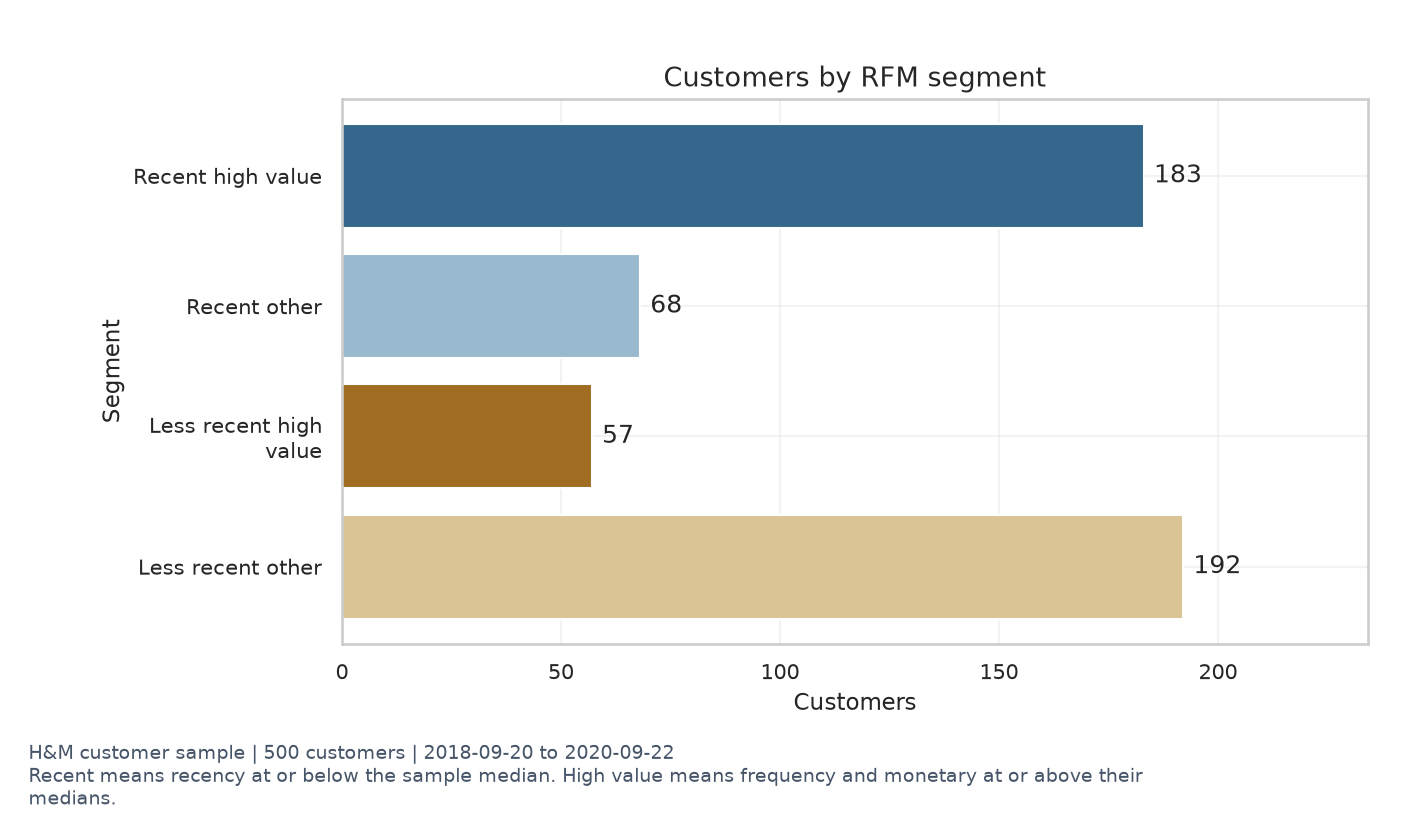
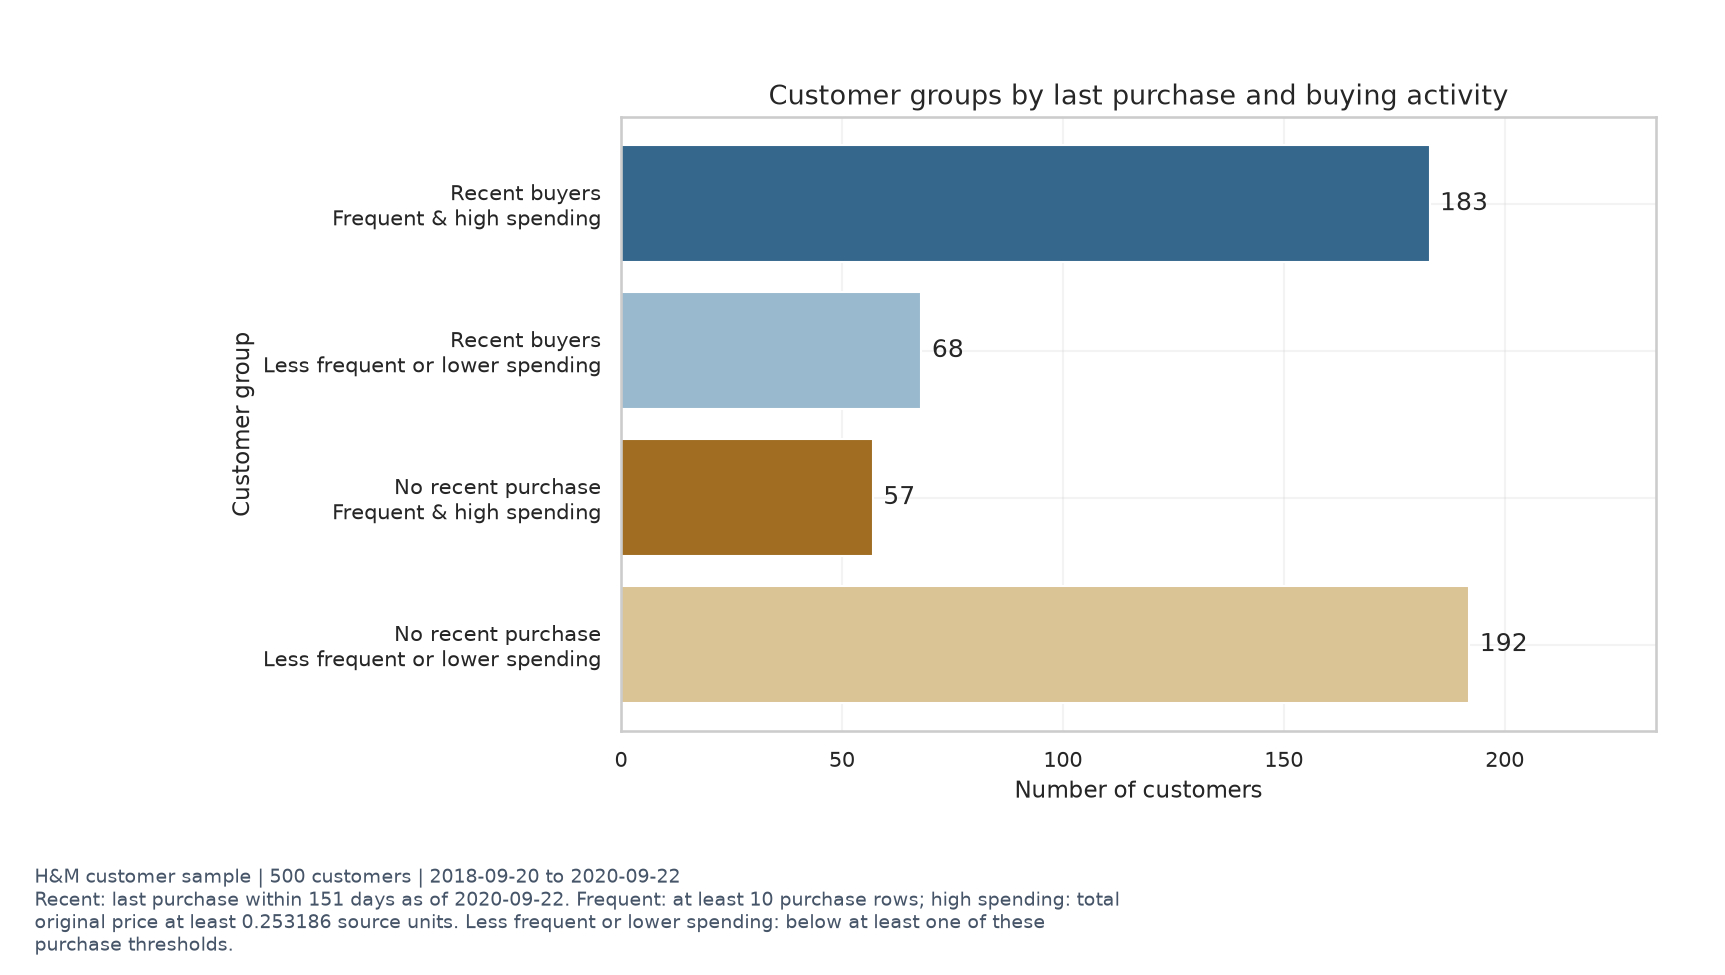
refactor(analysis): clarify customer group labels

diff --git a/src/reporting.py b/src/reporting.py
@@ -68,16 +68,16 @@ def business_insights(analyzer):
 
     groups = analyzer.segment_summary()  # 고객별 개인정보가 없는 집계를 선택한다.
 
-    recent_value = groups.loc['Recent high value']  # 최근·고빈도·고금액 고객의 실제 수치를 읽는다.
+    recent_value = groups.loc['Recent buyers / Frequent & high spending']  # 최근·고빈도·고금액 고객의 실제 수치를 읽는다.
 
-    less_recent = groups.loc['Less recent high value']  # 상대적으로 오래 방문하지 않은 고가치 고객을 읽는다.
+    less_recent = groups.loc['No recent purchase / Frequent & high spending']  # 상대적으로 오래 방문하지 않은 고가치 고객을 읽는다.
 
-    recent_other = groups.loc['Recent other']  # 그 외 최근 구매 고객의 실제 수치를 읽는다.
+    recent_other = groups.loc['Recent buyers / Less frequent or lower spending']  # 그 외 최근 구매 고객의 실제 수치를 읽는다.
 
     return [  # 세 인사이트를 같은 근거·실행·검증 구조로 만든다.
-        {'title': '최근 고빈도·고금액 고객의 관계 유지', 'evidence': f"Recent high value {int(recent_value['customers'])}명은 고객의 {recent_value['customer_share']:.1%}, 표본 구매 금액 합계의 {recent_value['monetary_share']:.1%}다.", 'action': '이 그룹에 구매 상품군과 연관된 추천을 소규모 대조 실험으로 제공한다. 목표는 재구매 유지이며 개선율은 아직 측정하지 않았다.', 'validation': '통제군과 비교한 재구매율·순이익, 반품·할인·동의 정보를 추가로 확인해야 한다. 높은 금액만으로 추천의 효과가 입증되지는 않는다.'},  # 할인 효과나 이익을 가정하지 않는다.
-        {'title': '상대적으로 오래 미구매한 고가치 고객의 재방문 검증', 'evidence': f"Less recent high value {int(less_recent['customers'])}명의 평균 미구매 간격은 {less_recent['mean_recency']:.1f}일이고 표본 금액 비중은 {less_recent['monetary_share']:.1%}다.", 'action': '이 그룹을 대상으로 재방문 안내와 미제공 대조군을 비교하는 실험을 설계한다. 목표는 재방문율 개선이며 실제 개선율은 아직 측정하지 않았다. 과거 구매일 기준 분류이며 현재 실제 이탈 고객이라고 단정하지 않는다.', 'validation': '관측 종료 뒤 구매 기록과 수신 동의, 재방문 이유가 필요하다. 관측 기간 종료 때문에 재방문을 못 본 것일 수도 있다.'},  # 관측 종료와 실제 이탈을 구분한다.
-        {'title': '그 외 최근 구매 고객의 후속 구매 기회', 'evidence': f"Recent other {int(recent_other['customers'])}명의 평균 구매 빈도는 {recent_other['mean_frequency']:.2f}행, 평균 금액 합계는 {recent_other['mean_monetary']:.4f} 원본 가격 단위다.", 'action': '이 그룹에 상품 사용 정보와 관련 상품 추천을 제공하는 실험을 설계하고 다음 구매일까지의 기간을 비교한다. 목표는 후속 구매까지의 기간 단축이며 실제 효과는 아직 측정하지 않았다. 신규 회원이라는 근거가 없으므로 신규 고객이라고 부르지 않는다.', 'validation': '가입일·반품·배송 만족도와 후속 구매 관측 기간이 필요하다. 단순한 계절 구매 고객이라면 추천 효과가 없을 수 있다.'},  # 없는 가입일과 구매량을 만들지 않는다.
+        {'title': '최근 고빈도·고금액 고객의 관계 유지', 'evidence': f"Recent buyers / Frequent & high spending {int(recent_value['customers'])}명은 고객의 {recent_value['customer_share']:.1%}, 표본 구매 금액 합계의 {recent_value['monetary_share']:.1%}다.", 'action': '이 그룹에 구매 상품군과 연관된 추천을 소규모 대조 실험으로 제공한다. 목표는 재구매 유지이며 개선율은 아직 측정하지 않았다.', 'validation': '통제군과 비교한 재구매율·순이익, 반품·할인·동의 정보를 추가로 확인해야 한다. 높은 금액만으로 추천의 효과가 입증되지는 않는다.'},  # 할인 효과나 이익을 가정하지 않는다.
+        {'title': '상대적으로 오래 미구매한 고가치 고객의 재방문 검증', 'evidence': f"No recent purchase / Frequent & high spending {int(less_recent['customers'])}명의 평균 미구매 간격은 {less_recent['mean_recency']:.1f}일이고 표본 금액 비중은 {less_recent['monetary_share']:.1%}다.", 'action': '이 그룹을 대상으로 재방문 안내와 미제공 대조군을 비교하는 실험을 설계한다. 목표는 재방문율 개선이며 실제 개선율은 아직 측정하지 않았다. 과거 구매일 기준 분류이며 현재 실제 이탈 고객이라고 단정하지 않는다.', 'validation': '관측 종료 뒤 구매 기록과 수신 동의, 재방문 이유가 필요하다. 관측 기간 종료 때문에 재방문을 못 본 것일 수도 있다.'},  # 관측 종료와 실제 이탈을 구분한다.
+        {'title': '그 외 최근 구매 고객의 후속 구매 기회', 'evidence': f"Recent buyers / Less frequent or lower spending {int(recent_other['customers'])}명의 평균 구매 빈도는 {recent_other['mean_frequency']:.2f}행, 평균 금액 합계는 {recent_other['mean_monetary']:.4f} 원본 가격 단위다.", 'action': '이 그룹에 상품 사용 정보와 관련 상품 추천을 제공하는 실험을 설계하고 다음 구매일까지의 기간을 비교한다. 목표는 후속 구매까지의 기간 단축이며 실제 효과는 아직 측정하지 않았다. 신규 회원이라는 근거가 없으므로 신규 고객이라고 부르지 않는다.', 'validation': '가입일·반품·배송 만족도와 후속 구매 관측 기간이 필요하다. 단순한 계절 구매 고객이라면 추천 효과가 없을 수 있다.'},  # 없는 가입일과 구매량을 만들지 않는다.
     ]  # 실제 실행이나 고객 메시지 전송은 하지 않는다.
 
 

diff --git a/tests/test_pipeline.py b/tests/test_pipeline.py
@@ -87,7 +87,7 @@ class PipelineTests(unittest.TestCase):  # 분석 결과의 의미가 바뀌는 
         self.assertEqual(result.loc['fake_A', 'recency'], 1)  # 기준일보다 하루 전 구매한 고객이다.
         self.assertAlmostEqual(result.loc['fake_A', 'monetary'], 1.6)  # 0.4를 네 번 산 금액이다.
         self.assertEqual(set(result['segment']), set(SEGMENTS))  # 예상한 네 그룹이 모두 나타나야 한다.
-        self.assertEqual(result.loc['fake_C', 'segment'], 'Less recent high value')  # 과거 고빈도·고금액 고객을 구분한다.
+        self.assertEqual(result.loc['fake_C', 'segment'], 'No recent purchase / Frequent & high spending')  # 과거 고빈도·고금액 고객을 구분한다.
         daily = self.analyzer.calculate_rfm(reference_date='2020-09-22', frequency='purchase_days').set_index('customer_id')  # 구매일 수라는 다른 정의도 명시적으로 선택할 수 있다.
         self.assertEqual(daily.loc['fake_A', 'frequency'], 1)  # 주문 수와 구매 행 수를 혼동하지 않는다.
 

diff --git a/README.md b/README.md
@@ -87,14 +87,16 @@ uv run --locked --python 3.11 jupyter lab notebooks/analysis_report.ipynb
 
 ## 🟢 RFM 고객 그룹  
 
+그룹 이름은 `/` 앞에서 최근 구매 여부, 뒤에서 구매 빈도·금액을 읽는다. `Recent buyers`는 최근 기준 안에 구매한 고객, `No recent purchase`는 그 기간 안에 구매가 없는 고객이다. `Frequent & high spending`은 빈도와 금액 기준을 모두 만족하고, `Less frequent or lower spending`은 둘 중 하나 이상이 기준보다 낮다는 뜻이다. 신규·실제 이탈 여부를 확정한 이름은 아니다.
+
 최근 기준은 미구매 간격 151.0일 이하, 고가치는 구매 빈도 10.0행 이상과 금액 0.253186 이상을 모두 만족하는 것이다. 모두 표본 중앙값 기준이다. R·F·M 점수는 1~4의 평균 백분위 순위로 계산하고 같은 값에 같은 점수를 준다. 그룹은 아래 조건으로 별도 정의한다.  
 
 | segment | customers | mean_recency | mean_frequency | mean_monetary | total_monetary | customer_share | monetary_share |  
 | --- | --- | --- | --- | --- | --- | --- | --- |
-| Recent high value | 183 | 46.7705 | 51.4863 | 1.4330 | 262.2428 | 0.3660 | 0.8018 |  
-| Recent other | 68 | 65.8824 | 4.7500 | 0.1205 | 8.1942 | 0.1360 | 0.0251 |  
-| Less recent high value | 57 | 342.4035 | 24.3333 | 0.6390 | 36.4233 | 0.1140 | 0.1114 |  
-| Less recent other | 192 | 454.3385 | 4.1406 | 0.1052 | 20.2041 | 0.3840 | 0.0618 |  
+| Recent buyers / Frequent & high spending | 183 | 46.7705 | 51.4863 | 1.4330 | 262.2428 | 0.3660 | 0.8018 |
+| Recent buyers / Less frequent or lower spending | 68 | 65.8824 | 4.7500 | 0.1205 | 8.1942 | 0.1360 | 0.0251 |
+| No recent purchase / Frequent & high spending | 57 | 342.4035 | 24.3333 | 0.6390 | 36.4233 | 0.1140 | 0.1114 |
+| No recent purchase / Less frequent or lower spending | 192 | 454.3385 | 4.1406 | 0.1052 | 20.2041 | 0.3840 | 0.0618 |
 
 ![고객 그룹 비교](reports/figures/03_segment_bar.png)  
 
@@ -104,19 +106,19 @@ uv run --locked --python 3.11 jupyter lab notebooks/analysis_report.ipynb
 
 ### 🟡 최근 고빈도·고금액 고객의 관계 유지  
 
-- 근거: Recent high value 183명은 고객의 36.6%, 표본 구매 금액 합계의 80.2%다.  
+- 근거: Recent buyers / Frequent & high spending 183명은 고객의 36.6%, 표본 구매 금액 합계의 80.2%다.
 - 실행: 이 그룹에 구매 상품군과 연관된 추천을 소규모 대조 실험으로 제공한다. 목표는 재구매 유지이며 개선율은 아직 측정하지 않았다.  
 - 검증: 통제군과 비교한 재구매율·순이익, 반품·할인·동의 정보를 추가로 확인해야 한다. 높은 금액만으로 추천의 효과가 입증되지는 않는다.  
 
 ### 🟡 상대적으로 오래 미구매한 고가치 고객의 재방문 검증  
 
-- 근거: Less recent high value 57명의 평균 미구매 간격은 342.4일이고 표본 금액 비중은 11.1%다.  
+- 근거: No recent purchase / Frequent & high spending 57명의 평균 미구매 간격은 342.4일이고 표본 금액 비중은 11.1%다.
 - 실행: 이 그룹을 대상으로 재방문 안내와 미제공 대조군을 비교하는 실험을 설계한다. 목표는 재방문율 개선이며 실제 개선율은 아직 측정하지 않았다. 과거 구매일 기준 분류이며 현재 실제 이탈 고객이라고 단정하지 않는다.  
 - 검증: 관측 종료 뒤 구매 기록과 수신 동의, 재방문 이유가 필요하다. 관측 기간 종료 때문에 재방문을 못 본 것일 수도 있다.  
 
 ### 🟡 그 외 최근 구매 고객의 후속 구매 기회  
 
-- 근거: Recent other 68명의 평균 구매 빈도는 4.75행, 평균 금액 합계는 0.1205 원본 가격 단위다.  
+- 근거: Recent buyers / Less frequent or lower spending 68명의 평균 구매 빈도는 4.75행, 평균 금액 합계는 0.1205 원본 가격 단위다.
 - 실행: 이 그룹에 상품 사용 정보와 관련 상품 추천을 제공하는 실험을 설계하고 다음 구매일까지의 기간을 비교한다. 목표는 후속 구매까지의 기간 단축이며 실제 효과는 아직 측정하지 않았다. 신규 회원이라는 근거가 없으므로 신규 고객이라고 부르지 않는다.  
 - 검증: 가입일·반품·배송 만족도와 후속 구매 관측 기간이 필요하다. 단순한 계절 구매 고객이라면 추천 효과가 없을 수 있다.  
 
